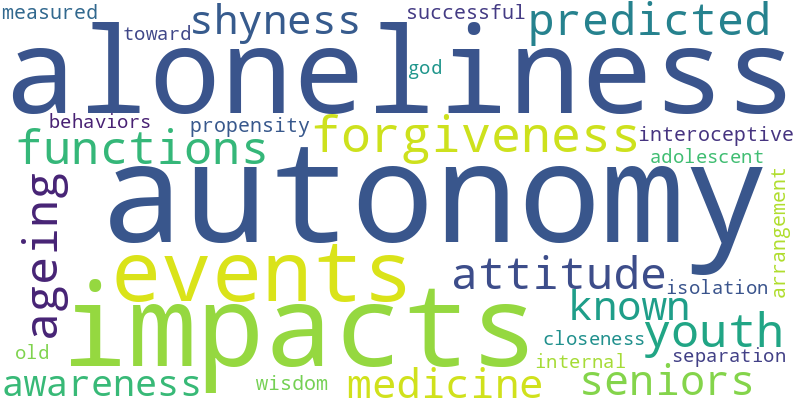
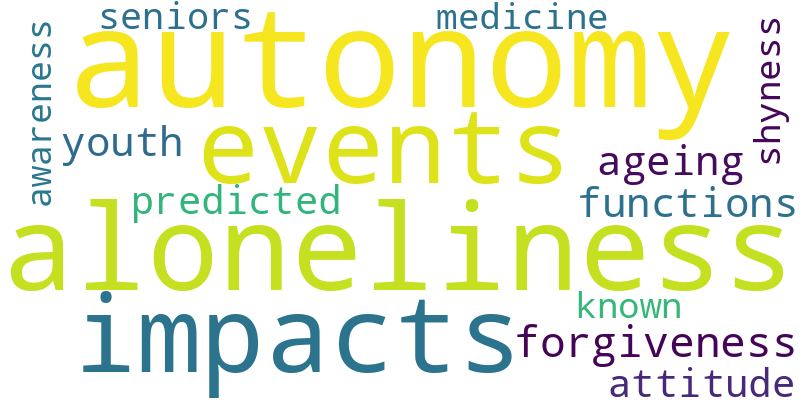
organize project structure

diff --git a/phases_abstracts_tf_idf/scripts/tfidf.py b/phases_abstracts_tf_idf/scripts/tfidf.py
@@ -112,3 +112,35 @@ def generate_wordcloud(folder_path, num_terms):
     plt.show()
 
     print(f"Word cloud saved to: {wordcloud_image_path}")
+
+# Function to plot top N TF-IDF terms
+def plot_top_tfidf_terms(folder_path, num_terms):
+    import matplotlib.pyplot as plt
+
+    term_file_path = os.path.join(folder_path, "tfidf_results.txt")
+
+    with open(term_file_path, 'r') as file:
+        lines = file.readlines()
+
+    terms = []
+    scores = []
+
+    for line in lines[:num_terms]:
+        term, score = line.strip().split(": ")
+        terms.append(term)
+        scores.append(float(score))
+
+    # Plotting
+    plt.figure(figsize=(12, 6))
+    plt.barh(terms[::-1], scores[::-1], color='skyblue')  # Reverse for descending
+    plt.xlabel('Average TF-IDF Score')
+    plt.title(f'Top {num_terms} TF-IDF Terms')
+    plt.tight_layout()
+    plt.grid(axis='x', linestyle='--', alpha=0.7)
+
+    plot_path = os.path.join(folder_path, "top_tfidf_terms.png")
+    plt.savefig(plot_path)
+    plt.show()
+
+    print(f"TF-IDF bar plot saved to: {plot_path}")
+